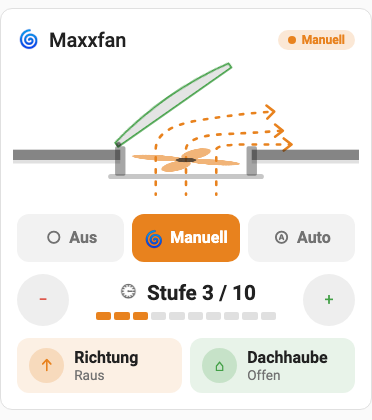
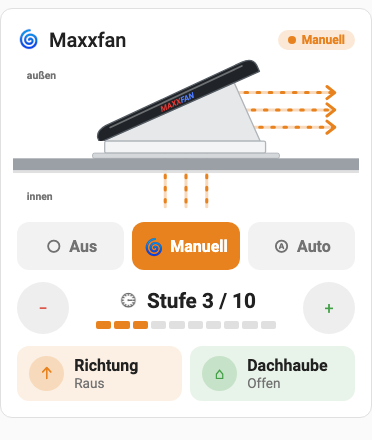
Grafik: vereinfachte Seitenansicht nach Foto, ohne Rotor

diff --git a/dist/maxxfan-card.js b/dist/maxxfan-card.js
@@ -55,6 +55,8 @@ const LABELS = {
     vent_open: "Offen",
     vent_closed: "Zu",
     target: "Ziel",
+    outside: "außen",
+    inside: "innen",
     unavailable: "nicht verfügbar",
   },
   en: {
@@ -69,57 +71,60 @@ const LABELS = {
     vent_open: "Open",
     vent_closed: "Closed",
     target: "Target",
+    outside: "outside",
+    inside: "inside",
     unavailable: "unavailable",
   },
 };
 
 const MODE_ICONS = { off: "mdi:fan-off", manual: "mdi:fan", auto: "mdi:fan-auto" };
 
-// Seitenansicht: Dach im Schnitt, Haube am linken Scharnier, Rotor perspektivisch
+// Seitenansicht nach Foto: Haube mit Scharnier links (104/96), öffnet um 24°.
+// Die Schürze ist so bemessen, dass ihre Unterkante bei 24° auf der
+// Gehäuseoberkante (y = 96) liegt; der clipPath blendet sie darunter aus.
 const DIAGRAM = `
-  <svg class="diagram" viewBox="0 0 400 166" role="img" aria-hidden="true">
-    <!-- Luftstrom (liegt hinter Haube und Dach) -->
+  <svg class="diagram" viewBox="0 0 400 176" role="img" aria-hidden="true">
+    <defs>
+      <clipPath id="mf-above"><rect x="0" y="0" width="400" height="96"/></clipPath>
+    </defs>
+    <text x="16" y="24" class="caption">{outside}</text>
+    <text x="16" y="164" class="caption">{inside}</text>
+
+    <!-- Luftstrom (liegt hinter Haube, Gehäuse und Dach) -->
     <g class="flow">
-      <path d="M165 158 V106 Q165 80 215 72 T300 62"/>
-      <path d="M200 158 V106 Q200 90 245 88 T310 84"/>
-      <path d="M235 158 V106 Q235 100 270 100 T320 100"/>
+      <path class="base" d="M176 172 V100 Q176 40 236 40 H370"/>
+      <path class="base" d="M200 172 V100 Q200 60 240 60 H370"/>
+      <path class="base" d="M224 172 V100 Q224 80 244 80 H370"/>
+      <path class="dash" d="M176 172 V100 Q176 40 236 40 H370"/>
+      <path class="dash" d="M200 172 V100 Q200 60 240 60 H370"/>
+      <path class="dash" d="M224 172 V100 Q224 80 244 80 H370"/>
       <g class="heads out">
-        <path d="M293 55 L302 62 L294 70"/>
-        <path d="M303 77 L312 84 L303 91"/>
-        <path d="M313 93 L322 100 L313 107"/>
+        <path d="M363 33 L372 40 L363 47"/>
+        <path d="M363 53 L372 60 L363 67"/>
+        <path d="M363 73 L372 80 L363 87"/>
       </g>
       <g class="heads in">
-        <path d="M158 150 L165 159 L172 150"/>
-        <path d="M193 150 L200 159 L207 150"/>
-        <path d="M228 150 L235 159 L242 150"/>
+        <path d="M169 163 L176 172 L183 163"/>
+        <path d="M193 163 L200 172 L207 163"/>
+        <path d="M217 163 L224 172 L231 163"/>
       </g>
     </g>
 
-    <!-- Dach -->
-    <rect class="roof" x="0" y="106" width="124" height="12"/>
-    <rect class="roof" x="276" y="106" width="124" height="12"/>
-    <rect class="lining" x="0" y="118" width="124" height="4"/>
-    <rect class="lining" x="276" y="118" width="124" height="4"/>
-
-    <!-- Lüftergehäuse -->
-    <rect class="frame" x="118" y="102" width="12" height="34" rx="2"/>
-    <rect class="frame" x="270" y="102" width="12" height="34" rx="2"/>
-    <rect class="garnish" x="110" y="134" width="180" height="6" rx="3"/>
-    <g transform="translate(200 118) scale(1 0.22)">
-      <g class="rotor">
-        <ellipse class="blade" cx="0" cy="-34" rx="14" ry="32"/>
-        <ellipse class="blade" cx="0" cy="34" rx="14" ry="32"/>
-        <ellipse class="blade" cx="-34" cy="0" rx="32" ry="14"/>
-        <ellipse class="blade" cx="34" cy="0" rx="32" ry="14"/>
-        <circle class="hub" cx="0" cy="0" r="12"/>
+    <!-- Haube mit Seitenschürze -->
+    <g clip-path="url(#mf-above)">
+      <g class="lid">
+        <path class="skirt" d="M104 96 L270 96 L270 170 Z"/>
+        <path class="lid-body" d="M100 96 L100 90 Q102 82 114 81 L288 78 Q301 78 302 88 L302 96 Z"/>
+        <path class="lid-shine" d="M118 85 L286 82"/>
+        <text x="200" y="93" class="logo"><tspan class="maxx">MAXX</tspan><tspan class="fan">FAN</tspan></text>
       </g>
     </g>
 
-    <!-- Haube (Scharnier links bei 120/102) -->
-    <g class="lid">
-      <path class="lid-body" d="M120 102 L120 96 Q200 80 280 96 L280 102 Z"/>
-      <circle class="hinge" cx="122" cy="100" r="3"/>
-    </g>
+    <!-- Gehäuse, Grundplatte, Dach -->
+    <rect class="housing" x="106" y="96" width="186" height="14" rx="2"/>
+    <rect class="plate" x="92" y="110" width="216" height="6" rx="2"/>
+    <rect class="roof" x="0" y="116" width="400" height="14"/>
+    <rect class="lining" x="0" y="130" width="400" height="3"/>
   </svg>`;
 
 class MaxxfanCard extends HTMLElement {
@@ -367,6 +372,7 @@ class MaxxfanCard extends HTMLElement {
         <ha-icon></ha-icon>
         <span class="tile-text"><span class="tile-label">${this._t(key)}</span><span class="tile-state">—</span></span>
       </button>`;
+    const diagram = DIAGRAM.replace(/\{(\w+)\}/g, (_, k) => escapeHtml(this._t(k)));
 
     this.shadowRoot.innerHTML = `
       <style>${STYLES}</style>
@@ -376,7 +382,7 @@ class MaxxfanCard extends HTMLElement {
           <span class="title">${escapeHtml(c.name || "")}</span>
           <span class="badge"><span class="dot"></span><span class="badge-text">—</span></span>
         </div>
-        ${c.show_diagram !== false ? DIAGRAM : ""}
+        ${c.show_diagram !== false ? diagram : ""}
         <div class="status"></div>
         <div class="modes">${MODES.map(modeBtn).join("")}</div>
         <div class="controls">
@@ -492,9 +498,7 @@ class MaxxfanCard extends HTMLElement {
     const running = !!speed?.on && mode !== "off";
     // Manuell: Tempo nach Stufe; Auto: festes Tempo
     const ratio = mode === "manual" && level ? level / speed.max : 0.5;
-    svg.style.setProperty("--spin", `${(1.6 - ratio * 1.3).toFixed(2)}s`);
     svg.style.setProperty("--flow", `${(2.4 - ratio * 1.8).toFixed(2)}s`);
-    svg.classList.toggle("running", running);
     svg.classList.toggle("open", !!vent);
     svg.classList.toggle("flowing", running && !!vent);
     svg.dataset.dir = dir || "out";
@@ -616,40 +620,37 @@ const STYLES = `
 
   /* ---- Grafik ---- */
   .diagram { display: block; width: 100%; max-width: 420px; margin: 4px auto 0; padding: 0 12px; box-sizing: border-box; cursor: pointer; }
-  .roof { fill: color-mix(in srgb, var(--primary-text-color) 55%, transparent); }
+  .caption { font-size: 12px; font-weight: 600; fill: var(--secondary-text-color); }
+  .roof { fill: #9aa0a6; }
   .lining { fill: var(--maxxfan-muted); }
-  .frame { fill: color-mix(in srgb, var(--primary-text-color) 40%, transparent); }
-  .garnish { fill: color-mix(in srgb, var(--primary-text-color) 25%, transparent); }
-  .blade { fill: color-mix(in srgb, var(--primary-text-color) 45%, transparent); }
-  .hub { fill: color-mix(in srgb, var(--primary-text-color) 70%, transparent); }
-  .rotor { transform-origin: 0 0; }
-  .running .rotor { animation: spin var(--spin, 1s) linear infinite; }
-  .running .blade { fill: color-mix(in srgb, var(--maxxfan-active) 60%, transparent); }
+  .plate { fill: #d5d8db; stroke: #a9aeb3; stroke-width: 1; }
+  .housing, .skirt { fill: #f3f4f5; stroke: #b0b5ba; stroke-width: 1.5; stroke-linejoin: round; }
+  .skirt { fill: #e6e8ea; }
 
-  .lid { transform-box: view-box; transform-origin: 122px 100px; transition: transform .9s ease-in-out; }
-  .open .lid { transform: rotate(-35deg); }
-  .lid-body {
-    fill: color-mix(in srgb, var(--primary-text-color) 12%, var(--card-background-color, #fff));
-    stroke: color-mix(in srgb, var(--primary-text-color) 60%, transparent); stroke-width: 2; stroke-linejoin: round;
-  }
-  .open .lid-body { stroke: var(--maxxfan-open); }
-  .hinge { fill: color-mix(in srgb, var(--primary-text-color) 60%, transparent); }
+  .lid { transform-box: view-box; transform-origin: 104px 96px; transition: transform .9s ease-in-out; }
+  .open .lid { transform: rotate(-24deg); }
+  .lid-body { fill: #202428; stroke: #555c63; stroke-width: 1.5; stroke-linejoin: round; }
+  .lid-shine { fill: none; stroke: rgba(255,255,255,.35); stroke-width: 2; stroke-linecap: round; }
+  .logo { font-size: 9px; font-weight: 800; font-style: italic; text-anchor: middle; }
+  .maxx { fill: #e53935; }
+  .fan { fill: #4f7cff; }
 
   .flow { --c: var(--maxxfan-out); opacity: 0; transition: opacity .4s; }
   .diagram[data-dir="in"] .flow { --c: var(--maxxfan-in); }
   .flowing .flow { opacity: 1; }
-  .flow path { fill: none; stroke: var(--c); stroke-width: 3; stroke-linecap: round; stroke-linejoin: round; }
-  .flow > path { stroke-dasharray: 4 10; animation: flow var(--flow, 1.5s) linear infinite; }
-  .diagram[data-dir="in"] .flow > path { animation-direction: reverse; }
+  .flow path { fill: none; stroke-width: 3.5; stroke-linecap: round; stroke-linejoin: round; }
+  .flow .base { stroke: color-mix(in srgb, var(--c) 30%, transparent); }
+  .flow .dash { stroke: var(--c); stroke-dasharray: 3 11; animation: flow var(--flow, 1.5s) linear infinite; }
+  .diagram[data-dir="in"] .flow .dash { animation-direction: reverse; }
+  .heads path { stroke: var(--c); }
   .heads { display: none; }
   .diagram[data-dir="out"] .heads.out, .diagram[data-dir="in"] .heads.in { display: inline; }
 
   ha-card[data-mode="off"] .diagram, ha-card[data-mode="unavailable"] .diagram { opacity: .6; }
-  @keyframes spin { to { transform: rotate(360deg); } }
   @keyframes flow { to { stroke-dashoffset: -14; } }
   @keyframes pulse { 50% { opacity: .45; } }
   @media (prefers-reduced-motion: reduce) {
-    .running .rotor, .flow > path { animation: none; }
+    .flow .dash { animation: none; stroke-dasharray: none; }
     .lid { transition: none; }
   }
 

diff --git a/src/maxxfan-card.js b/src/maxxfan-card.js
@@ -55,6 +55,8 @@ const LABELS = {
     vent_open: "Offen",
     vent_closed: "Zu",
     target: "Ziel",
+    outside: "außen",
+    inside: "innen",
     unavailable: "nicht verfügbar",
   },
   en: {
@@ -69,57 +71,60 @@ const LABELS = {
     vent_open: "Open",
     vent_closed: "Closed",
     target: "Target",
+    outside: "outside",
+    inside: "inside",
     unavailable: "unavailable",
   },
 };
 
 const MODE_ICONS = { off: "mdi:fan-off", manual: "mdi:fan", auto: "mdi:fan-auto" };
 
-// Seitenansicht: Dach im Schnitt, Haube am linken Scharnier, Rotor perspektivisch
+// Seitenansicht nach Foto: Haube mit Scharnier links (104/96), öffnet um 24°.
+// Die Schürze ist so bemessen, dass ihre Unterkante bei 24° auf der
+// Gehäuseoberkante (y = 96) liegt; der clipPath blendet sie darunter aus.
 const DIAGRAM = `
-  <svg class="diagram" viewBox="0 0 400 166" role="img" aria-hidden="true">
-    <!-- Luftstrom (liegt hinter Haube und Dach) -->
+  <svg class="diagram" viewBox="0 0 400 176" role="img" aria-hidden="true">
+    <defs>
+      <clipPath id="mf-above"><rect x="0" y="0" width="400" height="96"/></clipPath>
+    </defs>
+    <text x="16" y="24" class="caption">{outside}</text>
+    <text x="16" y="164" class="caption">{inside}</text>
+
+    <!-- Luftstrom (liegt hinter Haube, Gehäuse und Dach) -->
     <g class="flow">
-      <path d="M165 158 V106 Q165 80 215 72 T300 62"/>
-      <path d="M200 158 V106 Q200 90 245 88 T310 84"/>
-      <path d="M235 158 V106 Q235 100 270 100 T320 100"/>
+      <path class="base" d="M176 172 V100 Q176 40 236 40 H370"/>
+      <path class="base" d="M200 172 V100 Q200 60 240 60 H370"/>
+      <path class="base" d="M224 172 V100 Q224 80 244 80 H370"/>
+      <path class="dash" d="M176 172 V100 Q176 40 236 40 H370"/>
+      <path class="dash" d="M200 172 V100 Q200 60 240 60 H370"/>
+      <path class="dash" d="M224 172 V100 Q224 80 244 80 H370"/>
       <g class="heads out">
-        <path d="M293 55 L302 62 L294 70"/>
-        <path d="M303 77 L312 84 L303 91"/>
-        <path d="M313 93 L322 100 L313 107"/>
+        <path d="M363 33 L372 40 L363 47"/>
+        <path d="M363 53 L372 60 L363 67"/>
+        <path d="M363 73 L372 80 L363 87"/>
       </g>
       <g class="heads in">
-        <path d="M158 150 L165 159 L172 150"/>
-        <path d="M193 150 L200 159 L207 150"/>
-        <path d="M228 150 L235 159 L242 150"/>
+        <path d="M169 163 L176 172 L183 163"/>
+        <path d="M193 163 L200 172 L207 163"/>
+        <path d="M217 163 L224 172 L231 163"/>
       </g>
     </g>
 
-    <!-- Dach -->
-    <rect class="roof" x="0" y="106" width="124" height="12"/>
-    <rect class="roof" x="276" y="106" width="124" height="12"/>
-    <rect class="lining" x="0" y="118" width="124" height="4"/>
-    <rect class="lining" x="276" y="118" width="124" height="4"/>
-
-    <!-- Lüftergehäuse -->
-    <rect class="frame" x="118" y="102" width="12" height="34" rx="2"/>
-    <rect class="frame" x="270" y="102" width="12" height="34" rx="2"/>
-    <rect class="garnish" x="110" y="134" width="180" height="6" rx="3"/>
-    <g transform="translate(200 118) scale(1 0.22)">
-      <g class="rotor">
-        <ellipse class="blade" cx="0" cy="-34" rx="14" ry="32"/>
-        <ellipse class="blade" cx="0" cy="34" rx="14" ry="32"/>
-        <ellipse class="blade" cx="-34" cy="0" rx="32" ry="14"/>
-        <ellipse class="blade" cx="34" cy="0" rx="32" ry="14"/>
-        <circle class="hub" cx="0" cy="0" r="12"/>
+    <!-- Haube mit Seitenschürze -->
+    <g clip-path="url(#mf-above)">
+      <g class="lid">
+        <path class="skirt" d="M104 96 L270 96 L270 170 Z"/>
+        <path class="lid-body" d="M100 96 L100 90 Q102 82 114 81 L288 78 Q301 78 302 88 L302 96 Z"/>
+        <path class="lid-shine" d="M118 85 L286 82"/>
+        <text x="200" y="93" class="logo"><tspan class="maxx">MAXX</tspan><tspan class="fan">FAN</tspan></text>
       </g>
     </g>
 
-    <!-- Haube (Scharnier links bei 120/102) -->
-    <g class="lid">
-      <path class="lid-body" d="M120 102 L120 96 Q200 80 280 96 L280 102 Z"/>
-      <circle class="hinge" cx="122" cy="100" r="3"/>
-    </g>
+    <!-- Gehäuse, Grundplatte, Dach -->
+    <rect class="housing" x="106" y="96" width="186" height="14" rx="2"/>
+    <rect class="plate" x="92" y="110" width="216" height="6" rx="2"/>
+    <rect class="roof" x="0" y="116" width="400" height="14"/>
+    <rect class="lining" x="0" y="130" width="400" height="3"/>
   </svg>`;
 
 class MaxxfanCard extends HTMLElement {
@@ -367,6 +372,7 @@ class MaxxfanCard extends HTMLElement {
         <ha-icon></ha-icon>
         <span class="tile-text"><span class="tile-label">${this._t(key)}</span><span class="tile-state">—</span></span>
       </button>`;
+    const diagram = DIAGRAM.replace(/\{(\w+)\}/g, (_, k) => escapeHtml(this._t(k)));
 
     this.shadowRoot.innerHTML = `
       <style>${STYLES}</style>
@@ -376,7 +382,7 @@ class MaxxfanCard extends HTMLElement {
           <span class="title">${escapeHtml(c.name || "")}</span>
           <span class="badge"><span class="dot"></span><span class="badge-text">—</span></span>
         </div>
-        ${c.show_diagram !== false ? DIAGRAM : ""}
+        ${c.show_diagram !== false ? diagram : ""}
         <div class="status"></div>
         <div class="modes">${MODES.map(modeBtn).join("")}</div>
         <div class="controls">
@@ -492,9 +498,7 @@ class MaxxfanCard extends HTMLElement {
     const running = !!speed?.on && mode !== "off";
     // Manuell: Tempo nach Stufe; Auto: festes Tempo
     const ratio = mode === "manual" && level ? level / speed.max : 0.5;
-    svg.style.setProperty("--spin", `${(1.6 - ratio * 1.3).toFixed(2)}s`);
     svg.style.setProperty("--flow", `${(2.4 - ratio * 1.8).toFixed(2)}s`);
-    svg.classList.toggle("running", running);
     svg.classList.toggle("open", !!vent);
     svg.classList.toggle("flowing", running && !!vent);
     svg.dataset.dir = dir || "out";
@@ -616,40 +620,37 @@ const STYLES = `
 
   /* ---- Grafik ---- */
   .diagram { display: block; width: 100%; max-width: 420px; margin: 4px auto 0; padding: 0 12px; box-sizing: border-box; cursor: pointer; }
-  .roof { fill: color-mix(in srgb, var(--primary-text-color) 55%, transparent); }
+  .caption { font-size: 12px; font-weight: 600; fill: var(--secondary-text-color); }
+  .roof { fill: #9aa0a6; }
   .lining { fill: var(--maxxfan-muted); }
-  .frame { fill: color-mix(in srgb, var(--primary-text-color) 40%, transparent); }
-  .garnish { fill: color-mix(in srgb, var(--primary-text-color) 25%, transparent); }
-  .blade { fill: color-mix(in srgb, var(--primary-text-color) 45%, transparent); }
-  .hub { fill: color-mix(in srgb, var(--primary-text-color) 70%, transparent); }
-  .rotor { transform-origin: 0 0; }
-  .running .rotor { animation: spin var(--spin, 1s) linear infinite; }
-  .running .blade { fill: color-mix(in srgb, var(--maxxfan-active) 60%, transparent); }
+  .plate { fill: #d5d8db; stroke: #a9aeb3; stroke-width: 1; }
+  .housing, .skirt { fill: #f3f4f5; stroke: #b0b5ba; stroke-width: 1.5; stroke-linejoin: round; }
+  .skirt { fill: #e6e8ea; }
 
-  .lid { transform-box: view-box; transform-origin: 122px 100px; transition: transform .9s ease-in-out; }
-  .open .lid { transform: rotate(-35deg); }
-  .lid-body {
-    fill: color-mix(in srgb, var(--primary-text-color) 12%, var(--card-background-color, #fff));
-    stroke: color-mix(in srgb, var(--primary-text-color) 60%, transparent); stroke-width: 2; stroke-linejoin: round;
-  }
-  .open .lid-body { stroke: var(--maxxfan-open); }
-  .hinge { fill: color-mix(in srgb, var(--primary-text-color) 60%, transparent); }
+  .lid { transform-box: view-box; transform-origin: 104px 96px; transition: transform .9s ease-in-out; }
+  .open .lid { transform: rotate(-24deg); }
+  .lid-body { fill: #202428; stroke: #555c63; stroke-width: 1.5; stroke-linejoin: round; }
+  .lid-shine { fill: none; stroke: rgba(255,255,255,.35); stroke-width: 2; stroke-linecap: round; }
+  .logo { font-size: 9px; font-weight: 800; font-style: italic; text-anchor: middle; }
+  .maxx { fill: #e53935; }
+  .fan { fill: #4f7cff; }
 
   .flow { --c: var(--maxxfan-out); opacity: 0; transition: opacity .4s; }
   .diagram[data-dir="in"] .flow { --c: var(--maxxfan-in); }
   .flowing .flow { opacity: 1; }
-  .flow path { fill: none; stroke: var(--c); stroke-width: 3; stroke-linecap: round; stroke-linejoin: round; }
-  .flow > path { stroke-dasharray: 4 10; animation: flow var(--flow, 1.5s) linear infinite; }
-  .diagram[data-dir="in"] .flow > path { animation-direction: reverse; }
+  .flow path { fill: none; stroke-width: 3.5; stroke-linecap: round; stroke-linejoin: round; }
+  .flow .base { stroke: color-mix(in srgb, var(--c) 30%, transparent); }
+  .flow .dash { stroke: var(--c); stroke-dasharray: 3 11; animation: flow var(--flow, 1.5s) linear infinite; }
+  .diagram[data-dir="in"] .flow .dash { animation-direction: reverse; }
+  .heads path { stroke: var(--c); }
   .heads { display: none; }
   .diagram[data-dir="out"] .heads.out, .diagram[data-dir="in"] .heads.in { display: inline; }
 
   ha-card[data-mode="off"] .diagram, ha-card[data-mode="unavailable"] .diagram { opacity: .6; }
-  @keyframes spin { to { transform: rotate(360deg); } }
   @keyframes flow { to { stroke-dashoffset: -14; } }
   @keyframes pulse { 50% { opacity: .45; } }
   @media (prefers-reduced-motion: reduce) {
-    .running .rotor, .flow > path { animation: none; }
+    .flow .dash { animation: none; stroke-dasharray: none; }
     .lid { transition: none; }
   }
 

diff --git a/README.md b/README.md
@@ -5,9 +5,10 @@ der per MQTT angebunden ist. Die Karte kommt ohne Template-Switches und ohne
 Skripte aus: Sie liest die MQTT-Entitäten und sendet Kommandos direkt per
 `mqtt.publish` bzw. an die MQTT-Entitäten für Drehzahl und Zieltemperatur.
 
-Oben zeigt eine Grafik das Dach im Schnitt: Die Haube hebt sich animiert, der
-Rotor dreht (im Modus Manuell abhängig von der Stufe) und Pfeile zeigen den
-Luftstrom – orange nach draußen, blau nach drinnen.
+Oben zeigt eine vereinfachte Seitenansicht den Lüfter auf dem Dach: Die
+dunkle Haube hebt sich animiert samt weißer Seitenschürze, und animierte
+Linien zeigen den Luftstrom durch die Öffnung – orange nach draußen, blau nach
+drinnen (im Modus Manuell umso schneller, je höher die Stufe).
 
 ![Vorschau](images/preview.png)
 
